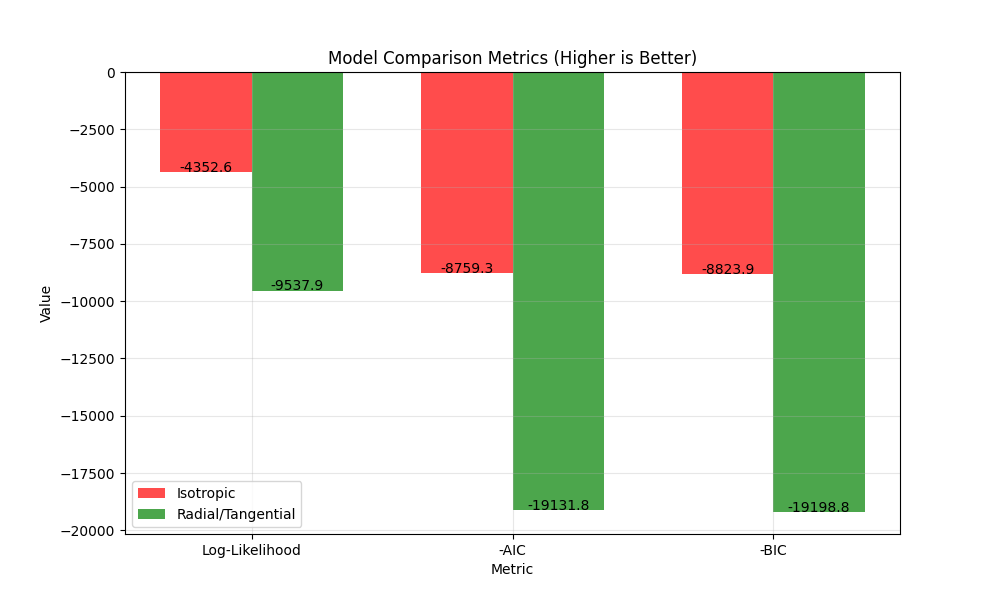
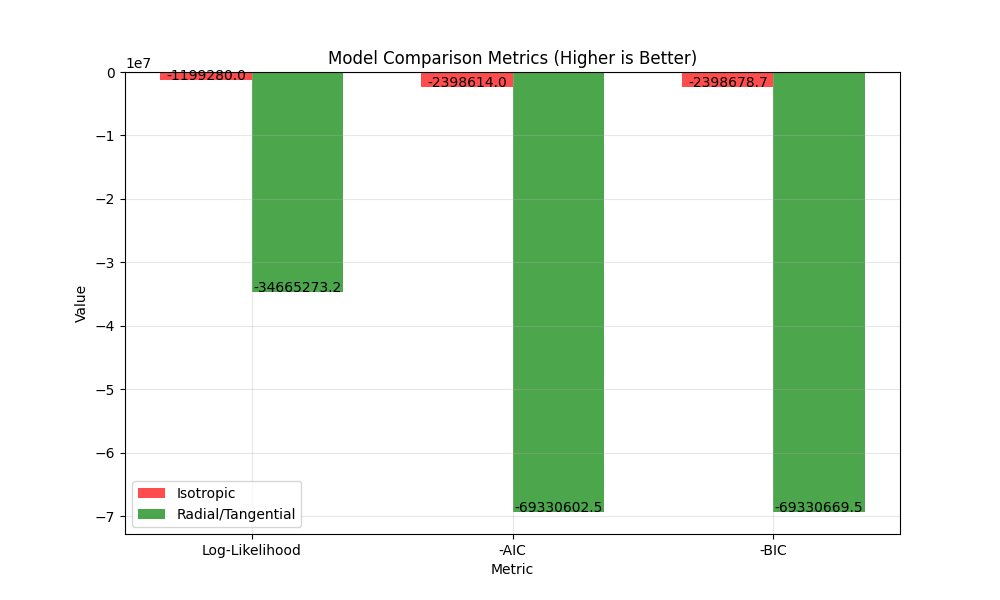
half completed readme.md

diff --git a/code/optimize_antikythera.py b/code/optimize_antikythera.py
@@ -1,6 +1,4 @@
 import torch
-import pandas as pd
-import numpy as np
 import matplotlib.pyplot as plt
 from antikythera_model import AntikytheraModel, load_hole_data
 
@@ -48,13 +46,13 @@ def optimize_model(data, hole_indices, model_type="isotropic", learning_rate=0.0
                 total_norm += param_norm.item() ** 2
         total_norm = total_norm ** 0.5
         
-        if i % 10 == 0:
-            print(f"Iteration {i}: Loss = {loss.item():.4f}, Gradient norm = {total_norm:.4f}")
+        # if i % 10 == 0:
+        #     print(f"Iteration {i}: Loss = {loss.item():.4f}, Gradient norm = {total_norm:.4f}")
             
-            # Print few parameter gradients (debug)
-            for name, param in list(model.named_parameters())[:5]:
-                if param.grad is not None:
-                    print(f"  {name}: grad = {param.grad.data}")
+        #     # Print few parameter gradients (debug)
+        #     for name, param in list(model.named_parameters())[:5]:
+        #         if param.grad is not None:
+        #             print(f"  {name}: grad = {param.grad.data}")
         
         if torch.isfinite(torch.tensor(total_norm)) and total_norm > 0:
             optimizer.step()

diff --git a/code/antikythera_model.py b/code/antikythera_model.py
@@ -28,7 +28,7 @@ class AntikytheraModel(nn.Module):
 
 
         else:
-            self._e_sigma_r = nn.Parameter(torch.tensor(np.exp(0.02), dtype=torch.float64))
+            self._e_sigma_r = nn.Parameter(torch.tensor(np.exp(0.025), dtype=torch.float64))
             self._e_sigma_t = nn.Parameter(torch.tensor(np.exp(0.1), dtype=torch.float64))
         
     
@@ -50,16 +50,16 @@ class AntikytheraModel(nn.Module):
 
     @property
     def sigma_r(self):
-        return torch.exp(self._e_sigma_r)
+        return torch.log(self._e_sigma_r)
             
             
     @property
     def sigma_t(self):
-        return torch.exp(self._e_sigma_t)
+        return torch.log(self._e_sigma_t)
     
     @property
     def sigma(self):
-        return torch.exp(self._e_sigma)
+        return torch.log(self._e_sigma)
     
     @property
     def N(self):

diff --git a/code/comparison.py b/code/comparison.py
@@ -42,6 +42,9 @@ def compare_models():
     # Extract model parameters
     params_iso = model_iso.to_dict()
     params_rt = model_rt.to_dict()
+    print(params_iso)
+    print("--------------------")
+    print(params_rt)
     
     # Get model predictions
     model_pos_iso = model_iso.calculate_model_positions(hole_indices)

diff --git a/README.md b/README.md
@@ -1,0 +1,51 @@
+# S2 Advanced Statistical Methods Coursework - Antikythera mechanism
+
+This repository contains code, data and report for the S2 coursework on the topic of Antikythera mechanism. 
+
+## Setting up the environment 
+
+### Prerequisites
+
+- Python 3.9.6
+- `pip` (Python package installer)
+
+### Setting Up a Virtual Environment
+
+1. Open a terminal and navigate to root of this directory:
+
+
+2. Create a virtual environment:
+    try:
+    ```sh
+    python -m venv venv
+    ```
+    if above does not work: 
+    ```sh
+    python3 -m venv venv
+    ```
+
+3. Activate the virtual environment:
+
+    - On macOS and Linux:
+
+        ```sh
+        source venv/bin/activate
+        ```
+
+    - On Windows:
+
+        ```sh
+        .\venv\Scripts\activate
+        ```
+
+### Installing Dependencies
+
+Once the virtual environment is activated, install the required packages using `pip`:
+
+```sh
+pip install -r requirements.txt
+```
+
+
+## Usage
+
